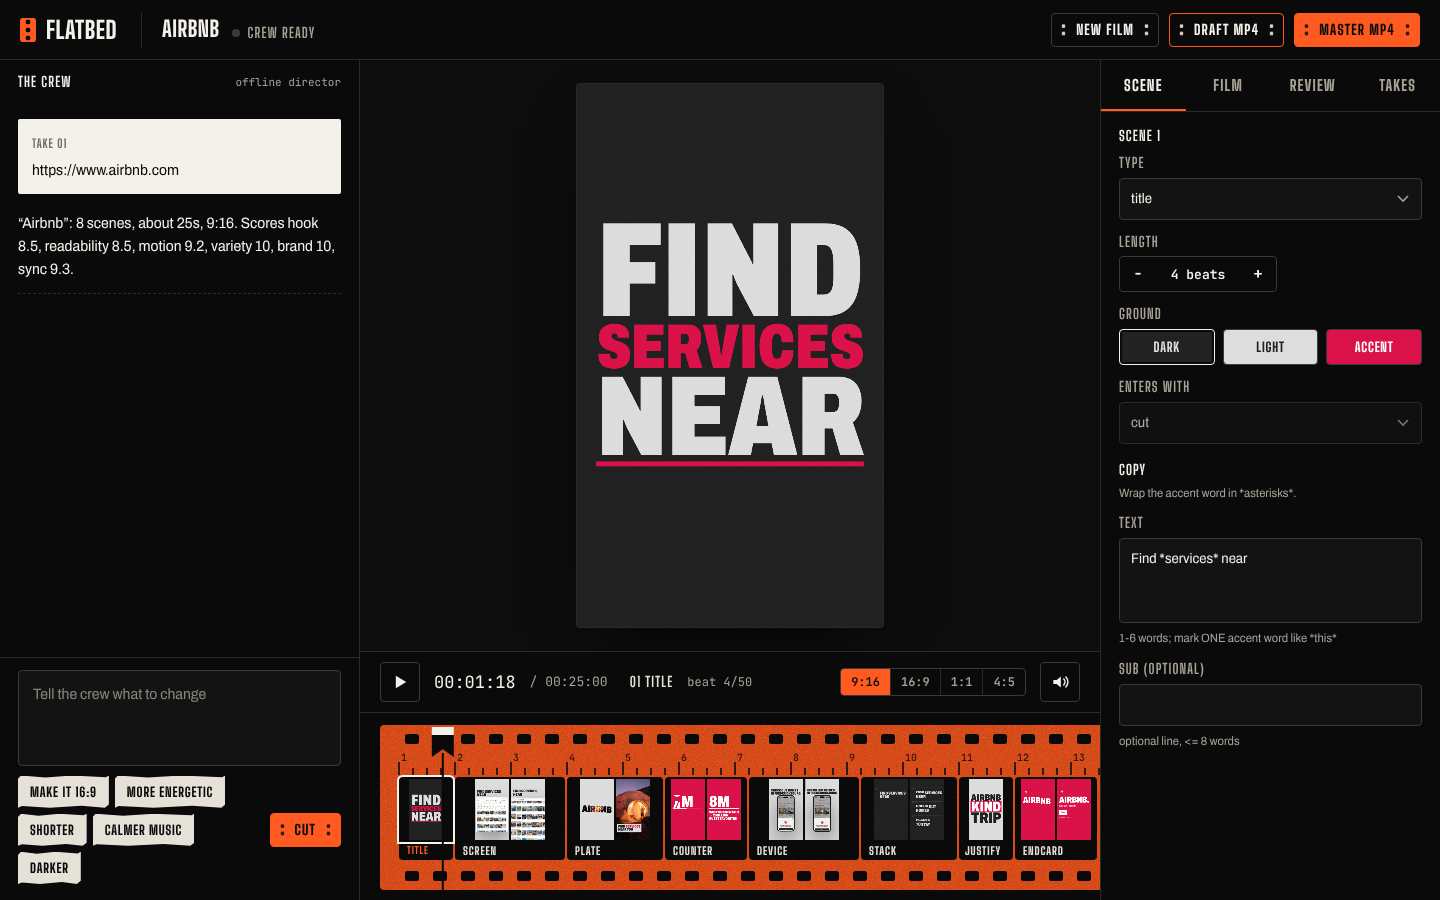
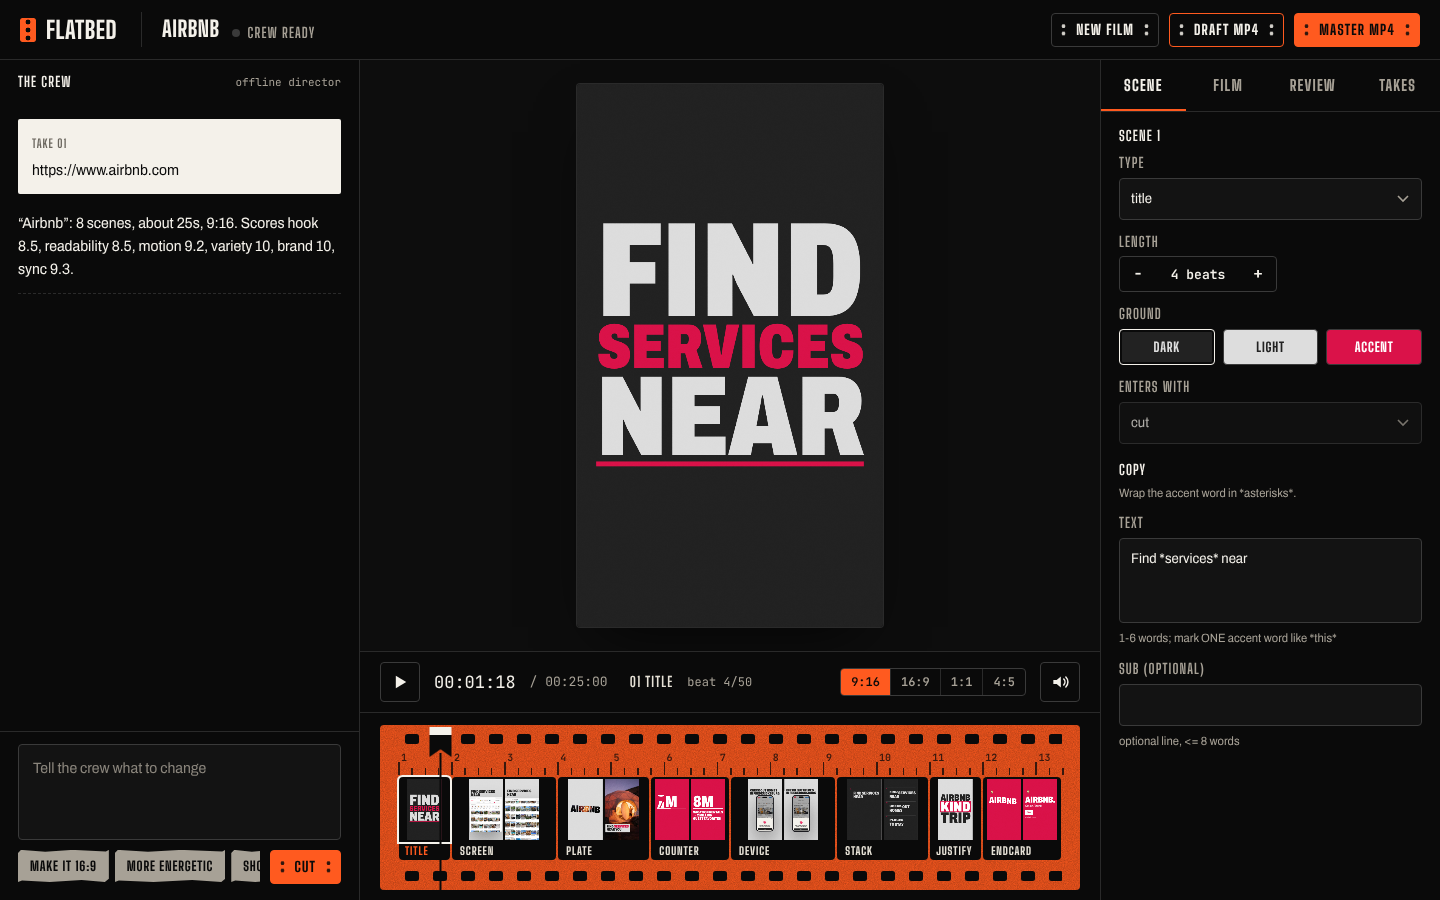
Finish the design review: captions, chips, tape and rail gutter
The reviewer's last pass verified all eight earlier fixes and found five
leftovers, all fixed here. The mobile hero title gets its own line
instead of an ellipsis. The reel's aspect tag never orphans, and verdict
rows line up across cards. The studio's revision chips sit in one quiet
row that scrolls, so CUT stays the loudest thing in the column; the
composer no longer grows past its column. Tape overlaps the trims it
holds. The rail fits the whole film when it can and ends inside its
gutter.

Claude-Session: https://claude.ai/code/session_01UkAMCRD4HFP2StU9grLxFn

Changed region(s): [[0.2812, 0.8089, 0.7812, 0.9956], [0.0, 0.84, 0.25, 0.9956], [0.0312, 0.7467, 0.1562, 0.7778]]

diff --git a/public/css/studio.css b/public/css/studio.css
@@ -28,7 +28,7 @@ body { overflow: hidden; }
 .render-line i { display: block; height: 100%; width: 100%; background: var(--orange); transform-origin: 0 50%; transform: scaleX(var(--p, 0)); transition: transform 300ms var(--ease-out); }
 
 /* ---- Crew log ------------------------------------------------------------------- */
-.crew { grid-area: crew; display: grid; grid-template-rows: auto minmax(0, 1fr) auto; border-right: 1px solid var(--spool); background: var(--ink); min-height: 0; }
+.crew { grid-area: crew; display: grid; grid-template-columns: minmax(0, 1fr); grid-template-rows: auto minmax(0, 1fr) auto; min-width: 0; border-right: 1px solid var(--spool); background: var(--ink); min-height: 0; }
 .crew-head { display: flex; justify-content: space-between; align-items: center; padding: 14px 18px 10px; }
 .crew-head h2 { margin: 0; }
 .crew-head .mono { font-size: 11px; }
@@ -59,10 +59,15 @@ body { overflow: hidden; }
 .entry img.sheet { margin-top: 8px; border-radius: 2px; width: 100%; outline: 1px solid var(--spool); cursor: zoom-in; }
 .studio-msg { padding: 10px 0 12px; font-size: 15px; color: var(--white); border-bottom: 1px dashed var(--spool); }
 
-.crew .composer { padding: 12px 18px 16px; border-top: 1px solid var(--spool); display: grid; gap: 10px; background: var(--ink); }
+.crew .composer { padding: 12px 18px 16px; border-top: 1px solid var(--spool); display: grid; grid-template-columns: minmax(0, 1fr); gap: 10px; background: var(--ink); }
+.composer-row { min-width: 0; }
 .composer .field { font-size: 15px; min-height: 76px; }
-.composer-row { display: flex; align-items: center; justify-content: space-between; gap: 10px; }
-.chips { display: flex; gap: 6px; flex-wrap: wrap; min-width: 0; }
+.composer-row { display: flex; align-items: flex-end; justify-content: space-between; gap: 10px; }
+/* Revision chips: one quiet row that scrolls sideways, so CUT stays the loudest thing here. */
+.composer-row > .tab { flex: none; }
+.chips { flex: 1 1 0; display: flex; gap: 6px; flex-wrap: nowrap; min-width: 0; overflow-x: auto; scrollbar-width: none; padding-bottom: 2px; }
+.chips::-webkit-scrollbar { display: none; }
+.chips .chip { flex: none; background: var(--dim); }
 .chip { border: 0; background: var(--white-2); color: var(--ink); clip-path: var(--torn); padding: 6px 12px; cursor: pointer; font-family: var(--f-cond); font-weight: 800; font-size: 13px; letter-spacing: 0.06em; text-transform: uppercase; transition: background-color 160ms ease, transform 160ms var(--ease-out); }
 .chip:active { transform: scale(0.97); }
 @media (hover: hover) and (pointer: fine) { .chip:hover { background: var(--orange); } }
@@ -114,7 +119,7 @@ body { overflow: hidden; }
 /* ---- Rail ---------------------------------------------------------------------- */
 .rail { grid-area: rail; border-top: 1px solid var(--spool); background: var(--ink); min-width: 0; padding: 12px 0 10px; }
 .rail-scroll { height: 100%; overflow-x: auto; overflow-y: hidden; padding: 0 20px; cursor: ew-resize; touch-action: pan-y; }
-.rail-inner { position: relative; height: 100%; min-width: 100%; margin-right: 20px; border-radius: 4px; display: grid; grid-template-rows: auto 22px minmax(0, 1fr) auto; user-select: none; box-sizing: content-box; padding: 0 18px; }
+.rail-inner { position: relative; height: 100%; min-width: calc(100% - 36px); border-radius: 4px; display: grid; grid-template-rows: auto 22px minmax(0, 1fr) auto; user-select: none; box-sizing: content-box; padding: 0 18px; }
 .rail-inner .perf-row { margin: 6px 0; }
 .rail-ruler { position: relative; color: rgba(10,10,10,.78); }
 .rail-ruler i { position: absolute; bottom: 0; width: 1.5px; height: 7px; background: currentColor; }

diff --git a/public/css/landing.css b/public/css/landing.css
@@ -59,7 +59,7 @@
 .bin { list-style: none; margin: 0; padding: 22px 6px 4px; display: flex; gap: 10px; position: relative; overflow: hidden; }
 .bin::before { content: ''; position: absolute; left: 0; right: 0; top: 9px; height: 2px; background: var(--spool); }
 .bin li { position: relative; display: grid; justify-items: center; gap: 4px; padding-top: 14px; transform-origin: 50% -6px; transition: opacity 300ms ease, transform 400ms var(--ease-out); }
-.bin li .tape { position: absolute; top: -16px; left: 50%; width: 26px; height: 22px; margin-left: -13px; background: rgba(230, 225, 214, 0.82); clip-path: var(--torn); transform: rotate(-3deg); z-index: 1; }
+.bin li .tape { position: absolute; top: -4px; left: 50%; width: 26px; height: 22px; margin-left: -13px; background: rgba(230, 225, 214, 0.82); clip-path: var(--torn); transform: rotate(-3deg); z-index: 1; }
 .bin li:nth-child(even) .tape { transform: rotate(2.5deg); }
 .bin li .trimcell { display: block; border: 3px solid var(--white); border-radius: 2px; overflow: hidden; height: 64px; background: var(--ink); }
 .bin li .trimcell canvas { height: 100%; width: auto; }
@@ -91,7 +91,8 @@ section { padding: 112px 40px 96px; max-width: 1680px; margin: 0 auto; }
 .reel-item h3 { margin: 0; font-size: 24px; min-height: calc(2 * 0.92em); }
 .reel-item .from { margin: 0; color: var(--dim); font-size: 15px; max-width: 46ch; }
 .reel-item .meta { display: flex; justify-content: space-between; align-items: start; gap: 12px; }
-.reel-item .fmt { color: var(--white-2); margin-left: 6px; }
+.reel-item .fmt { color: var(--white-2); white-space: nowrap; }
+.reel-item .from { min-height: calc(2 * 1.55em); }   /* two lines, so verdict rows line up across cards */
 .reel-item .verdict { display: flex; align-items: center; gap: 8px; font-size: 13px; color: var(--white-2); margin: 0; }
 .reel-item .verdict .ok { font-family: var(--f-cond); font-weight: 800; text-transform: uppercase; letter-spacing: 0.08em; font-size: 13px; }
 
@@ -177,6 +178,8 @@ section { padding: 112px 40px 96px; max-width: 1680px; margin: 0 auto; }
   .mrow.head .short { display: inline; }
   .measure-sheet { padding: 4px 12px 16px; }
   .strip { height: 420px; }
+  .rail-meta { flex-wrap: wrap; row-gap: 8px; }
+  .rail-meta .label { flex: 1 0 100%; }
   .bin li .trimcell { height: 48px; }
   .mrow .film { font-size: 16px; }
   .mrow .n { font-size: 14px; }

diff --git a/public/js/landing.js b/public/js/landing.js
@@ -128,7 +128,7 @@ for (const f of reel) {
   const pass = Object.values(f.qa.scores).every((v) => v >= 8);
   fig.innerHTML = `<div class="win"><canvas></canvas></div>
     <div class="meta"><h3 class="cond">${f.title}</h3><a class="tab small ghost" href="/studio?showcase=${encodeURIComponent(f.id)}">Remix</a></div>
-    <p class="from">Made from ${f.from}<span class="fmt mono">· ${f.spec.format}</span></p>
+    <p class="from">Made from ${f.from}&nbsp;<span class="fmt mono">·&nbsp;${f.spec.format}</span></p>
     <p class="verdict">${pass ? '<span class="cross" aria-hidden="true"></span><span class="ok">Approved</span>' : '<span class="ok">In review</span>'}<span class="mono">${f.qa.overall.toFixed(1)}</span><span class="dim">${pass ? 'every axis 8 or above' : ''}</span></p>`;
   grid.appendChild(fig);
   const p = new Player(fig.querySelector('canvas'), { audio: false, loop: true, scale: f.spec.format === '16:9' ? 0.5 : 0.4 });

diff --git a/public/js/rail.js b/public/js/rail.js
@@ -76,8 +76,8 @@ export class Rail extends EventTarget {
   layout() {
     if (!this.tl.length) return;
     const beats = this.tl.reduce((a, s) => a + s.beats, 0);
-    const avail = this.scroll.clientWidth - 96;   // scroll padding, inner padding, end margin
-    this.pitch = Math.max(14, avail / beats);
+    const avail = this.scroll.clientWidth - 76;   // scroll padding and inner padding
+    this.pitch = Math.max(11, avail / beats);   // fit the whole film when it can; labels shrink to suit
     const width = beats * this.pitch;
     this.inner.style.width = width + 'px';
     this.frames.forEach((f, i) => { f.style.width = this.tl[i].beats * this.pitch + 'px'; });
